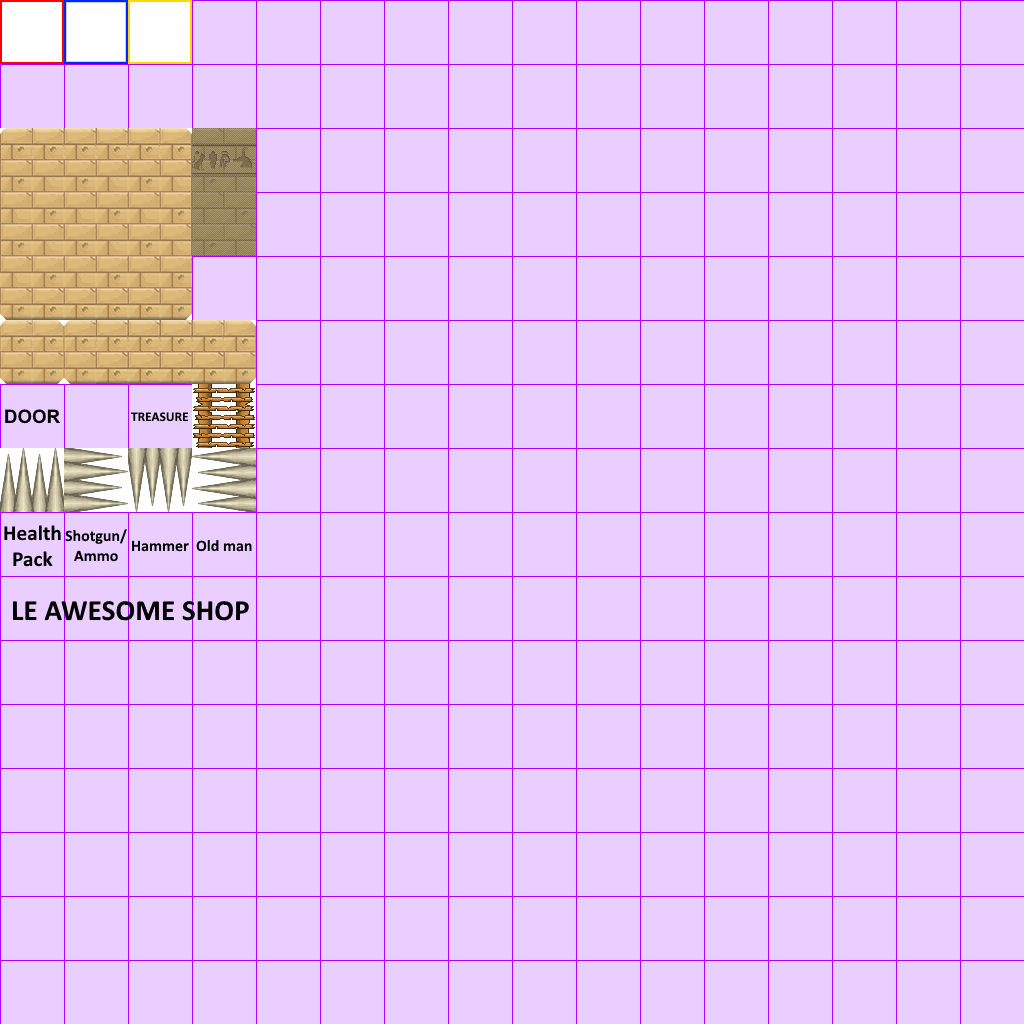
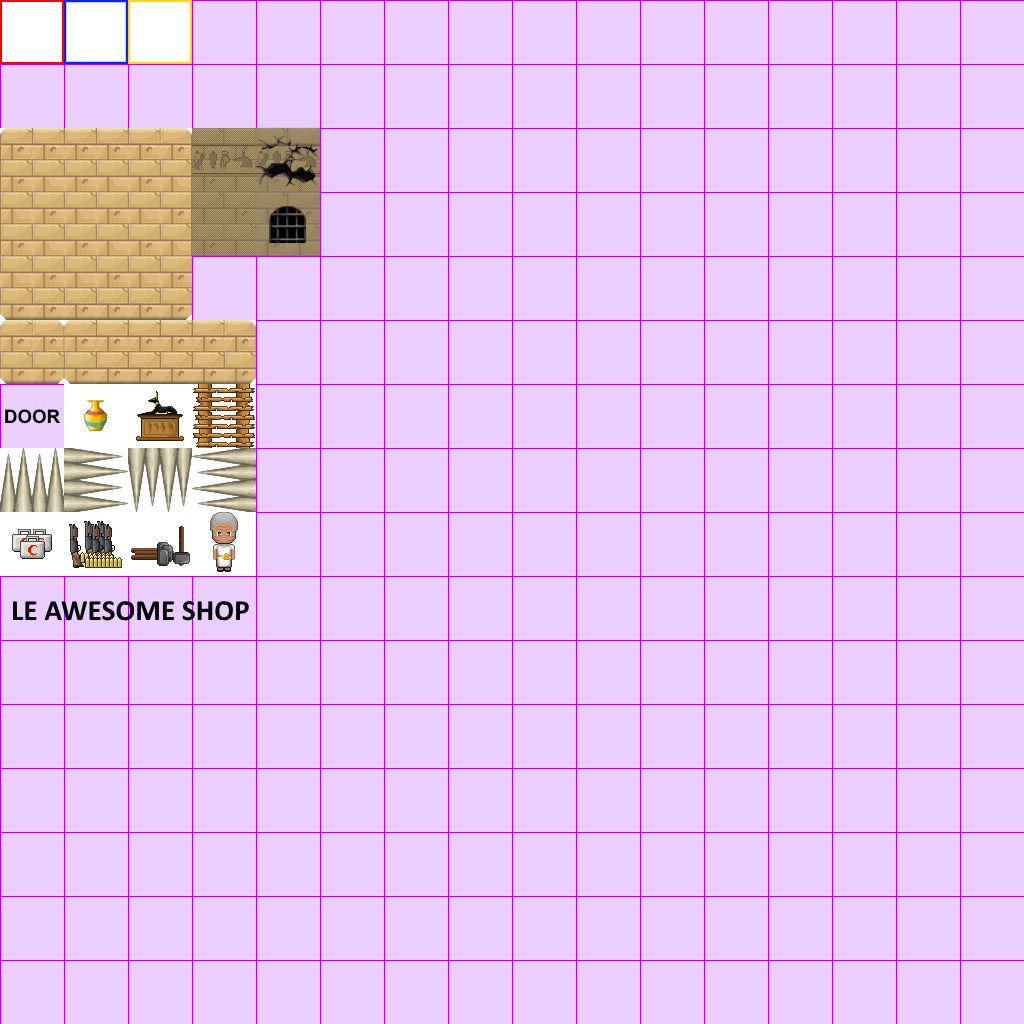
Torches and Snake anim.

Changed region(s): [[0.0, 0.5, 0.25, 0.5625], [0.25, 0.125, 0.3125, 0.25], [0.0625, 0.375, 0.1875, 0.4375]]

diff --git a/core/src/pt/feup/jd/levels/Level.java b/core/src/pt/feup/jd/levels/Level.java
@@ -27,6 +27,7 @@ import pt.feup.jd.levels.tileentities.FireballTrap;
 import pt.feup.jd.levels.tileentities.Gate;
 import pt.feup.jd.levels.tileentities.Lever;
 import pt.feup.jd.levels.tileentities.TileEntity;
+import pt.feup.jd.levels.tileentities.Torch;
 import pt.feup.jd.levels.tileentities.shop.AmmoPack;
 import pt.feup.jd.levels.tileentities.shop.HealthPack;
 import pt.feup.jd.levels.triggers.Door;
@@ -163,6 +164,11 @@ public class Level {
 					if (prop.containsKey("trigger")) trap.trigger =  ((String) prop.get("trigger"));
 					tileEntities.put(trap.name, trap);
 				}
+				// Torch
+				else if (type.equals("torch")) {
+					Torch torch = new Torch(this, o.getName(), p.x,p.y);
+					tileEntities.put(torch.name, torch);
+				}
 				// Enemies
 				else if (type.startsWith("enemy-")) {
 					Enemy e = null;
@@ -179,7 +185,6 @@ public class Level {
 				else if (type.startsWith("shop-")) {
 					// Health Pack
 					if (type.equals("shop-health")) {
-						System.out.println("oi");
 						HealthPack healthShop = new HealthPack(this, o.getName(), p.x, p.y);
 						tileEntities.put(healthShop.name, healthShop);
 						triggers.put(healthShop.name, healthShop);
@@ -324,6 +329,7 @@ public class Level {
 	}
 
 	public void renderLight(SpriteBatch batch) {
+		for(TileEntity e : tileEntities.values()) e.renderLight(batch);
 		for(Entity e : entities) e.renderLight(batch);		
 	}
 

diff --git a/core/src/pt/feup/jd/levels/tileentities/Torch.java b/core/src/pt/feup/jd/levels/tileentities/Torch.java
@@ -1,0 +1,57 @@
+package pt.feup.jd.levels.tileentities;
+
+import com.badlogic.gdx.graphics.g2d.SpriteBatch;
+
+import pt.feup.jd.Assets;
+import pt.feup.jd.Sprite;
+import pt.feup.jd.Util;
+import pt.feup.jd.levels.Level;
+
+public class Torch extends TileEntity {
+	
+	static Sprite main_spr;
+	static boolean initSprites = false;
+	static void initSprites() {
+		initSprites = true;
+		
+		main_spr = new Sprite();
+		main_spr.anim_delay = 1/8f;
+		main_spr.addFrame(Assets.sprites64[2][3]);
+		main_spr.addFrame(Assets.sprites64[2][4]);
+		main_spr.addFrame(Assets.sprites64[2][5]);
+	}
+	
+	int anim_index;
+	float anim_timer, anim_delay;
+	
+
+	public Torch(Level level, String name, float x, float y) {
+		super(level, name, x, y);
+		
+		if (!initSprites) initSprites();
+		
+		anim_index = 0;
+		anim_timer = 0;
+	}
+
+	@Override
+	public void update(float delta) {
+		super.update(delta);
+		
+		anim_timer += delta;
+		while(anim_timer > main_spr.anim_delay) {
+			anim_index = (anim_index+1)%(main_spr.frames.size());
+			anim_timer-=main_spr.anim_delay;
+		}
+	}
+	
+	@Override
+	public void render(SpriteBatch batch) {
+		sprite = main_spr.frames.get(anim_index);
+		super.render(batch);
+	}
+	@Override
+	public void renderLight(SpriteBatch batch) {
+		Util.drawLight(batch, x, y, 4, 4, 1, 1, 0.5f, 1);
+	}
+}

diff --git a/core/src/pt/feup/jd/screens/HUD.java b/core/src/pt/feup/jd/screens/HUD.java
@@ -37,17 +37,17 @@ public class HUD {
 			
 			// Coins
 			if (game.coins > 0) {
-				batch.draw(Assets.sprites32[5][0], -16, sh-64-16, 64,64);
+				batch.draw(Assets.sprites32[5][0], -16, sh-64-8, 64,64);
 				font.getData().setScale(1.5f);
 				layout.setText(font, ""+game.coins); 
-				font.draw(batch, layout, 32, sh-64 + 1.5f*layout.height);
+				font.draw(batch, layout, 32, sh-64+4 + 1.5f*layout.height);
 			}
 			// Ammo
 			if (level.player.ammo > 0) {
-				batch.draw(Assets.sprites64[2][2], -16, sh-96, 64,64);
+				batch.draw(Assets.sprites64[2][2], -8, sh-96+8, 64,64);
 				font.getData().setScale(1.5f);
 				layout.setText(font, ""+level.player.ammo); 
-				font.draw(batch, layout, 48, sh-96 + 1.5f*layout.height);
+				font.draw(batch, layout, 52, sh-96+12 + 1.5f*layout.height);
 			}
 			// Timer
 			if (level.trapTimer != -1) {

diff --git a/core/src/pt/feup/jd/levels/tileentities/TileEntity.java b/core/src/pt/feup/jd/levels/tileentities/TileEntity.java
@@ -9,6 +9,8 @@ import pt.feup.jd.levels.Level;
 
 public class TileEntity {
 
+	static int idCount;
+	
 	protected Level level;
 	public String name;
 	protected float x,y;
@@ -18,7 +20,7 @@ public class TileEntity {
 	
 	public TileEntity(Level level, String name, float x, float y) {
 		this.level = level;
-		this.name = name;
+		this.name = (name == null || name.equals("")) ? "default_"+(idCount++) : name;
 		this.x = x;
 		this.y = y;
 		this.xi = (int) (x / JDGame.TILE_SIZE);
@@ -41,5 +43,8 @@ public class TileEntity {
 			a.translate(-JDGame.TILE_SIZE/2, -JDGame.TILE_SIZE/2);
 			batch.draw(sprite, JDGame.TILE_SIZE, JDGame.TILE_SIZE, a);
 		}
+	}
+	
+	public void renderLight(SpriteBatch batch) {
 	}
 }

diff --git a/core/src/pt/feup/jd/entities/Snake.java b/core/src/pt/feup/jd/entities/Snake.java
@@ -13,7 +13,11 @@ public class Snake extends Enemy {
 	static void initSprites() {
 		initSprites = true;
 		default_anim = new Sprite();
+		default_anim.anim_delay = 0.25f;
 		default_anim.addFrame(Assets.sprites64[4][0]);
+		default_anim.addFrame(Assets.sprites64[4][1]);
+		default_anim.addFrame(Assets.sprites64[4][2]);
+		default_anim.addFrame(Assets.sprites64[4][3]);
 	}
 	
 	

diff --git a/core/src/pt/feup/jd/entities/Player.java b/core/src/pt/feup/jd/entities/Player.java
@@ -156,6 +156,7 @@ public class Player extends Entity {
 			Bullet b = (Bullet) new Bullet(level).moveTo(x + direction*28, y-10);
 			float s = 7.5f*JDGame.TILE_SIZE;
 			b.vx = direction * s;
+			b.scale_x = direction;
 			
 			gun_timer = gun_delay;
 			ammo--;
